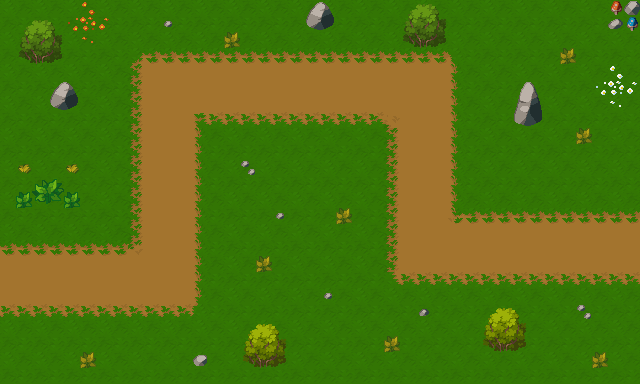
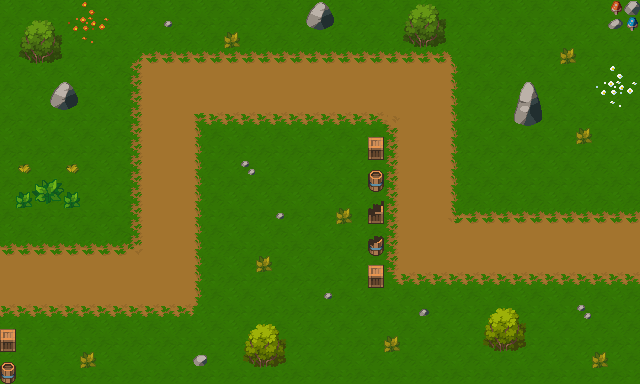
RNGTD

Changed region(s): [[0.5625, 0.5312, 0.625, 0.75], [0.5625, 0.3438, 0.625, 0.5], [0.0, 0.8438, 0.0312, 1.0]]

diff --git a/web/js/RNGTD/mapa1.js b/web/js/RNGTD/mapa1.js
@@ -44,32 +44,32 @@ const sitios1 = [
   0, 0, 0, 0, 0, 0, 0, 0, 0, 0, 0, 37, 0, 37, 0, 37, 0, 37, 0, 37, 0, 0, 37, 0,
   37, 0, 37, 0, 37, 0, 0, 0, 0, 0, 0, 0, 0, 0, 0, 0, 0, 0, 0, 0, 0, 0, 0, 0, 0,
   0, 0, 37, 0, 37, 0, 37, 0, 37, 0, 37, 0, 0, 37, 0, 37, 0, 37, 0, 37, 0, 0, 0,
-  0, 0, 37, 0, 37, 0, 37, 0, 37, 0, 37, 0, 37, 0, 0, 0, 0, 0, 0, 37, 0, 37, 0,
-  37, 0, 37, 0, 37, 0, 0, 37, 0, 37, 0, 37, 0, 37, 0, 0, 0, 0, 0, 37, 0, 37, 0,
-  37, 0, 37, 0, 37, 0, 37, 0, 0, 0, 0, 0, 0, 37, 0, 37, 0, 37, 0, 37, 0, 37, 0,
-  0, 37, 0, 37, 0, 37, 0, 37, 0, 0, 0, 0, 0, 37, 0, 37, 0, 37, 0, 37, 0, 37, 0,
-  37, 0, 0, 0, 0, 0, 0, 37, 0, 37, 0, 37, 0, 37, 0, 37, 0, 0, 37, 0, 37, 0, 37,
-  0, 37, 0, 0, 0, 0, 0, 37, 0, 37, 0, 37, 0, 37, 0, 37, 0, 37, 0, 0, 0, 0, 0, 0,
+  0, 0, 0, 37, 0, 37, 0, 37, 0, 37, 0, 37, 0, 0, 0, 0, 0, 0, 0, 37, 0, 37, 0,
+  37, 0, 37, 0, 37, 0, 0, 37, 0, 37, 0, 37, 0, 37, 0, 0, 0, 0, 0, 0, 37, 0, 37,
+  0, 37, 0, 37, 0, 37, 0, 0, 0, 0, 0, 0, 0, 37, 0, 37, 0, 37, 0, 37, 0, 37, 0,
+  0, 37, 0, 37, 0, 37, 0, 37, 0, 0, 0, 0, 0, 0, 37, 0, 37, 0, 37, 0, 37, 0, 37,
+  0, 0, 0, 0, 0, 0, 0, 37, 0, 37, 0, 37, 0, 37, 0, 37, 0, 0, 37, 0, 37, 0, 37,
+  0, 37, 0, 0, 0, 0, 0, 0, 37, 0, 37, 0, 37, 0, 37, 0, 37, 0, 0, 0, 0, 0, 0, 0,
   37, 0, 37, 0, 37, 0, 37, 0, 37, 0, 0, 37, 0, 37, 0, 37, 0, 37, 0, 0, 0, 0, 0,
-  37, 0, 37, 0, 37, 0, 37, 0, 37, 0, 37, 0, 0, 0, 0, 0, 0, 37, 0, 37, 0, 37, 0,
-  37, 0, 37, 0, 0, 37, 0, 37, 0, 37, 0, 37, 0, 0, 0, 0, 0, 37, 0, 37, 0, 37, 0,
-  37, 0, 37, 0, 37, 0, 0, 0, 0, 0, 0, 0, 0, 0, 0, 0, 0, 0, 0, 0, 0, 0, 37, 0,
-  37, 0, 37, 0, 37, 0, 0, 0, 0, 0, 37, 0, 37, 0, 37, 0, 37, 0, 37, 0, 37, 0, 0,
+  0, 37, 0, 37, 0, 37, 0, 37, 0, 37, 0, 0, 0, 0, 0, 0, 0, 37, 0, 37, 0, 37, 0,
+  37, 0, 37, 0, 0, 37, 0, 37, 0, 37, 0, 37, 0, 0, 0, 0, 0, 0, 37, 0, 37, 0, 37,
+  0, 37, 0, 37, 0, 0, 0, 0, 0, 0, 0, 0, 0, 0, 0, 0, 0, 0, 0, 0, 0, 0, 37, 0, 37,
+  0, 37, 0, 37, 0, 0, 0, 0, 0, 0, 37, 0, 37, 0, 37, 0, 37, 0, 37, 0, 0, 0, 0, 0,
   0, 0, 0, 0, 0, 0, 0, 0, 0, 0, 0, 0, 0, 0, 0, 0, 0, 0, 0, 0, 0, 0, 0, 0, 0, 0,
-  0, 37, 0, 37, 0, 37, 0, 37, 0, 37, 0, 37, 0, 0, 0, 0, 0, 0, 0, 0, 0, 0, 0, 0,
-  0, 0, 0, 0, 0, 0, 0, 0, 0, 0, 0, 0, 0, 0, 0, 0, 0, 37, 0, 37, 0, 37, 0, 37, 0,
-  37, 0, 37, 0, 0, 0, 0, 0, 0, 0, 0, 0, 0, 0, 0, 0, 0, 0, 0, 0, 0, 0, 0, 0, 0,
-  0, 0, 0, 0, 0, 0, 0, 37, 0, 37, 0, 37, 0, 37, 0, 37, 0, 37, 0, 0, 0, 0, 0, 0,
-  0, 0, 0, 0, 0, 0, 0, 0, 0, 0, 0, 0, 0, 0, 0, 0, 0, 0, 0, 0, 0, 0, 0, 37, 0,
+  37, 0, 37, 0, 37, 0, 37, 0, 37, 0, 0, 0, 0, 0, 0, 0, 0, 0, 0, 0, 0, 0, 0, 0,
+  0, 0, 0, 0, 0, 0, 0, 0, 0, 0, 0, 0, 0, 0, 0, 0, 37, 0, 37, 0, 37, 0, 37, 0,
+  37, 0, 0, 0, 0, 0, 0, 0, 0, 0, 0, 0, 0, 0, 0, 0, 0, 0, 0, 0, 0, 0, 0, 0, 0, 0,
+  0, 0, 0, 0, 0, 0, 37, 0, 37, 0, 37, 0, 37, 0, 37, 0, 0, 0, 0, 0, 0, 0, 0, 0,
+  0, 0, 0, 0, 0, 0, 0, 0, 0, 0, 0, 0, 0, 0, 0, 0, 0, 0, 0, 0, 0, 0, 37, 0, 37,
+  0, 37, 0, 37, 0, 37, 0, 37, 0, 37, 0, 37, 0, 37, 0, 37, 0, 37, 0, 37, 0, 37,
+  0, 0, 0, 0, 0, 0, 0, 0, 0, 0, 0, 0, 0, 0, 0, 37, 0, 37, 0, 37, 0, 37, 0, 37,
+  0, 37, 0, 37, 0, 37, 0, 37, 0, 37, 0, 37, 0, 37, 0, 37, 0, 0, 0, 37, 0, 37, 0,
   37, 0, 37, 0, 37, 0, 37, 0, 37, 0, 37, 0, 37, 0, 37, 0, 37, 0, 37, 0, 37, 0,
-  37, 0, 37, 0, 0, 0, 0, 0, 0, 0, 0, 0, 0, 0, 0, 0, 37, 0, 37, 0, 37, 0, 37, 0,
+  37, 0, 37, 0, 37, 0, 37, 0, 37, 0, 37, 0, 0, 0, 37, 0, 37, 0, 37, 0, 37, 0,
   37, 0, 37, 0, 37, 0, 37, 0, 37, 0, 37, 0, 37, 0, 37, 0, 37, 0, 37, 0, 37, 0,
+  37, 0, 37, 0, 37, 0, 37, 0, 0, 0, 37, 0, 37, 0, 37, 0, 37, 0, 37, 0, 37, 0,
   37, 0, 37, 0, 37, 0, 37, 0, 37, 0, 37, 0, 37, 0, 37, 0, 37, 0, 37, 0, 37, 0,
+  37, 0, 37, 0, 0, 0, 37, 0, 37, 0, 37, 0, 37, 0, 37, 0, 37, 0, 37, 0, 37, 0,
   37, 0, 37, 0, 37, 0, 37, 0, 37, 0, 37, 0, 37, 0, 37, 0, 37, 0, 37, 0, 37, 0,
-  37, 0, 37, 0, 37, 0, 37, 0, 37, 0, 37, 0, 37, 0, 37, 0, 37, 0, 37, 0, 37, 0,
-  37, 0, 37, 0, 37, 0, 37, 0, 37, 0, 37, 0, 37, 0, 37, 0, 37, 0, 37, 0, 37, 0,
-  37, 0, 37, 0, 37, 0, 37, 0, 37, 0, 37, 0, 37, 0, 37, 0, 37, 0, 37, 0, 37, 0,
-  37, 0, 37, 0, 37, 0, 37, 0, 37, 0, 37, 0, 37, 0, 37, 0, 37, 0, 37, 0, 37, 0,
-  37, 0, 37, 0, 37, 0, 37, 0, 37, 0, 37, 0, 37, 0, 37, 0, 37, 0, 37, 0, 37, 0,
-  37, 0, 37, 0,
+  0,
 ];

diff --git a/web/js/RNGTD/main.js b/web/js/RNGTD/main.js
@@ -17,8 +17,10 @@ class Sitio {
   constructor({ position = { x: 0, y: 0 } }) {
     this.position = position;
     this.size = 32;
+    this.color = "rgba(0,0,255,0.15)";
   }
   draw() {
+    c.fillStyle = this.color;
     c.fillRect(this.position.x, this.position.y, this.size, this.size);
   }
 }
